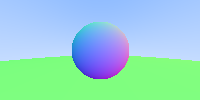
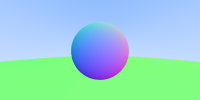
Added antialiasing

diff --git a/src/main.rs b/src/main.rs
@@ -3,9 +3,11 @@ mod drawable;
 mod sphere;
 mod camera;
 
+use rand::Rng;
 use cgmath::Vector3;
 use cgmath::prelude::*;
 
+use camera::Camera;
 use drawable::{
     Drawable,
     Drawables,
@@ -17,10 +19,12 @@ const WIDTH: usize = 200;
 const HEIGHT: usize = 100;
 
 fn main() {
-    let lower_left_corner = cgmath::Vector3::new(-2.0, -1.0, -1.0);
-    let horizontal = cgmath::Vector3::<f32>::unit_x() * 4.0;
-    let vertical = cgmath::Vector3::<f32>::unit_y() * 2.0;
-    let origin = cgmath::Vector3::new(0.0, 0.0, 0.0);
+    let camera = Camera::new(
+        cgmath::Vector3::new(0.0, 0.0, 0.0),
+        cgmath::Vector3::<f32>::unit_x() * 4.0,
+        cgmath::Vector3::<f32>::unit_y() * 2.0,
+        cgmath::Vector3::new(-2.0, -1.0, -1.0),
+    );
 
     let mut world = Drawables::new();
 
@@ -37,16 +41,23 @@ fn main() {
     world.push(&sphere1);
     world.push(&sphere2);
 
+    let nsamples: u32 = 100;
+    
     // Output An Image
     let mut imgbuf = image::ImageBuffer::new(WIDTH as u32, HEIGHT as u32);
     for (x, y, pixel) in imgbuf.enumerate_pixels_mut() {
-        let iy = (HEIGHT as u32 - y) as f32;
-        let r = ray::Ray::new(origin, lower_left_corner + (x as f32)*horizontal/WIDTH as f32 + iy*vertical/HEIGHT as f32);
-        let c = color(&r, &world);
+        
+        let mut rng = rand::thread_rng();
+        let col = (0..nsamples).map(|_| {
+            let u = (x as f32 + rng.gen::<f32>()) / WIDTH as f32;
+            let v = ((HEIGHT as u32 - y) as f32 + rng.gen::<f32>()) / HEIGHT as f32;
+            let r = camera.get_ray(u, v);
+            color(&r, &world)
+        }).sum::<Vector3<f32>>() / nsamples as f32;
 
-        let r = (255.0 * c[0]) as u8;
-        let g = (255.0 * c[1]) as u8;
-        let b = (255.0 * c[2]) as u8;
+        let r = (255.0 * col[0]) as u8;
+        let g = (255.0 * col[1]) as u8;
+        let b = (255.0 * col[2]) as u8;
         *pixel = image::Rgb([r, g, b]);
     }
     imgbuf.save_with_format("output.png", image::ImageFormat::Png).unwrap();

diff --git a/src/camera.rs b/src/camera.rs
@@ -1,5 +1,27 @@
+use cgmath::Vector3;
+use crate::ray::Ray;
 
+pub struct Camera {
+    origin: Vector3<f32>,
+    horizontal: Vector3<f32>,
+    vertical: Vector3<f32>,
+    lower_left_corner: Vector3<f32>,
+}
 
-struct Camera {
+impl Camera {
+    pub fn new(origin: Vector3<f32>, horizontal: Vector3<f32>, vertical: Vector3<f32>, lower_left_corner: Vector3<f32>) -> Self {
+        Self {
+            origin,
+            horizontal,
+            vertical,
+            lower_left_corner,
+        }
+    }
 
+    pub fn get_ray(&self, u: f32, v: f32) -> Ray {
+        Ray::new(
+            self.origin,
+            self.lower_left_corner + u*self.horizontal + v*self.vertical - self.origin,
+        )
+    }
 }
